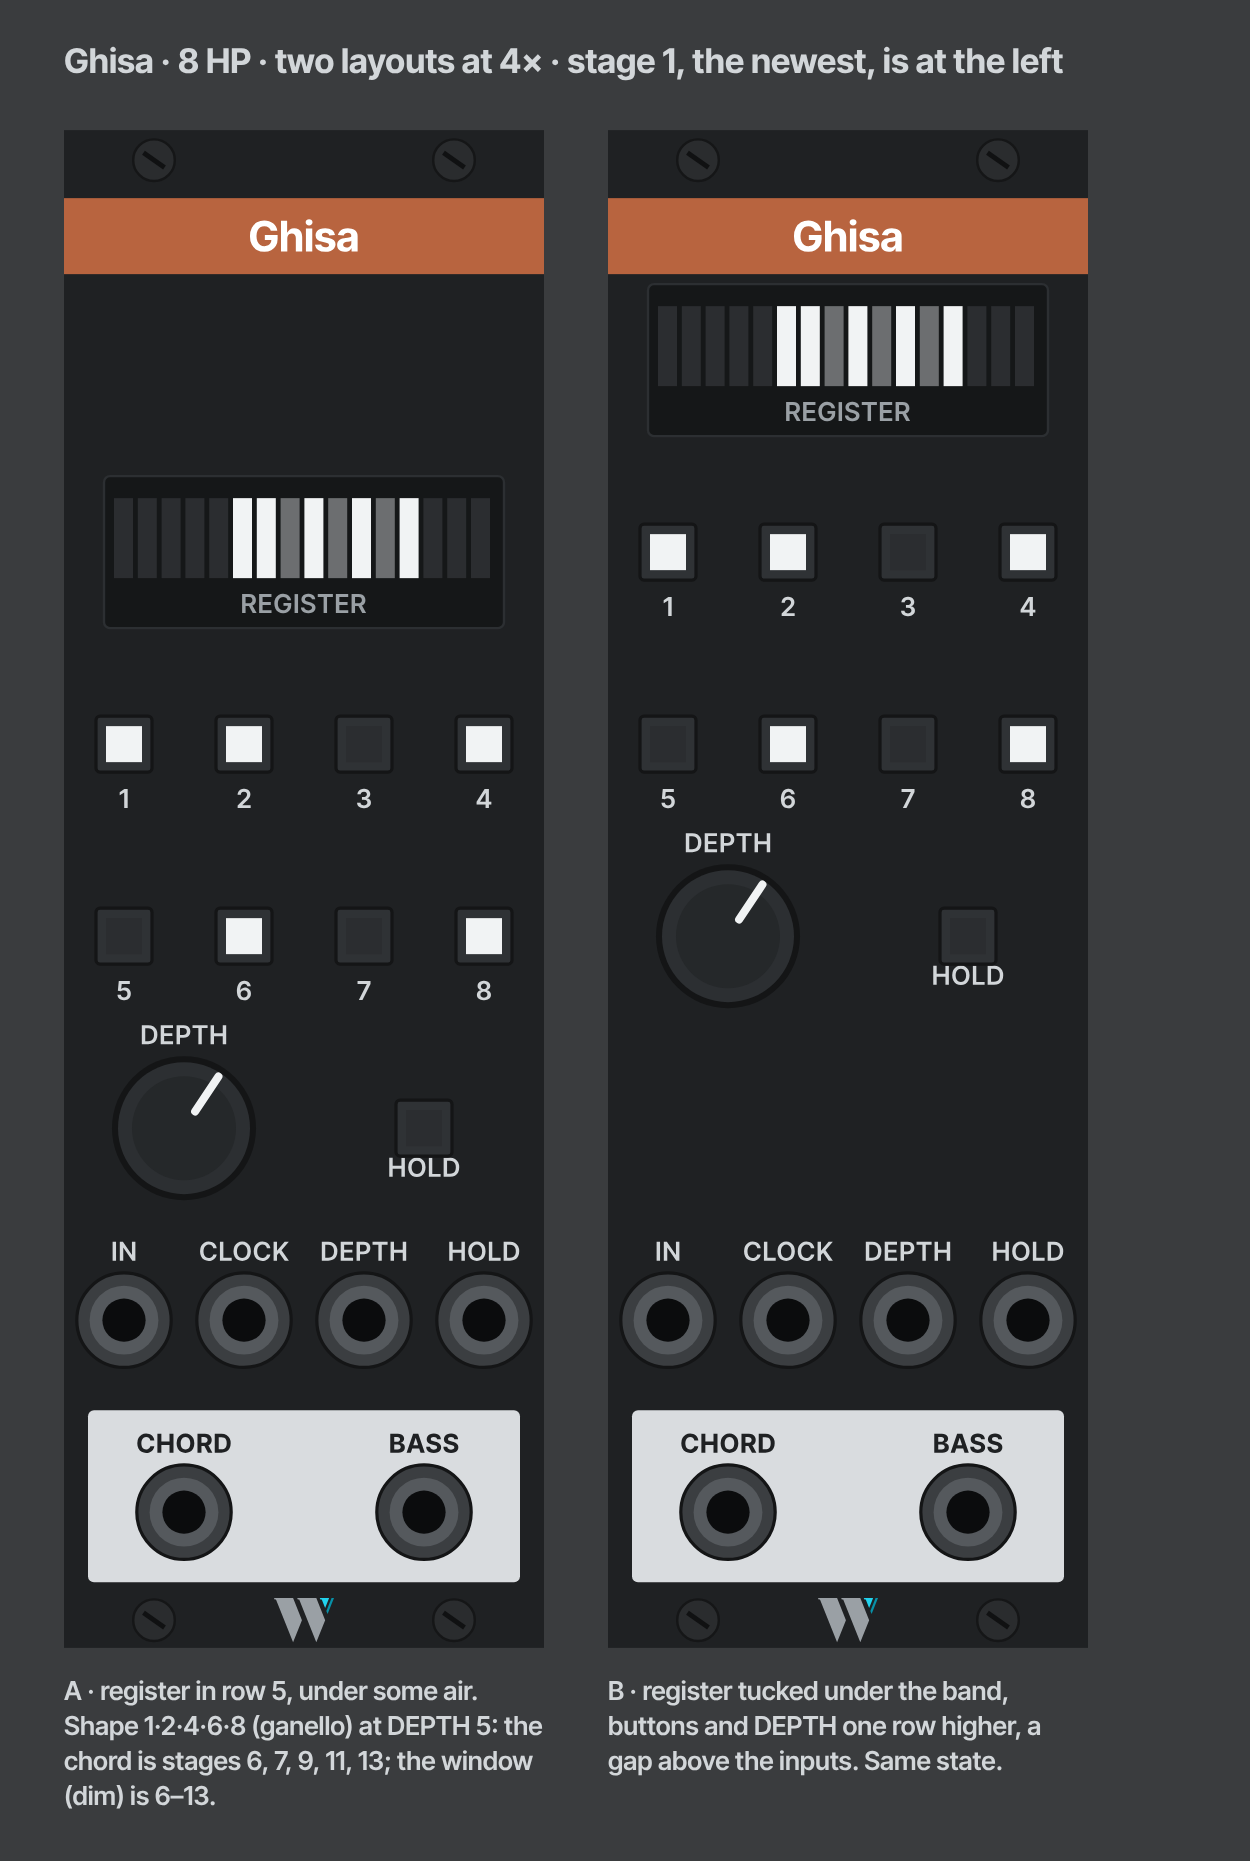
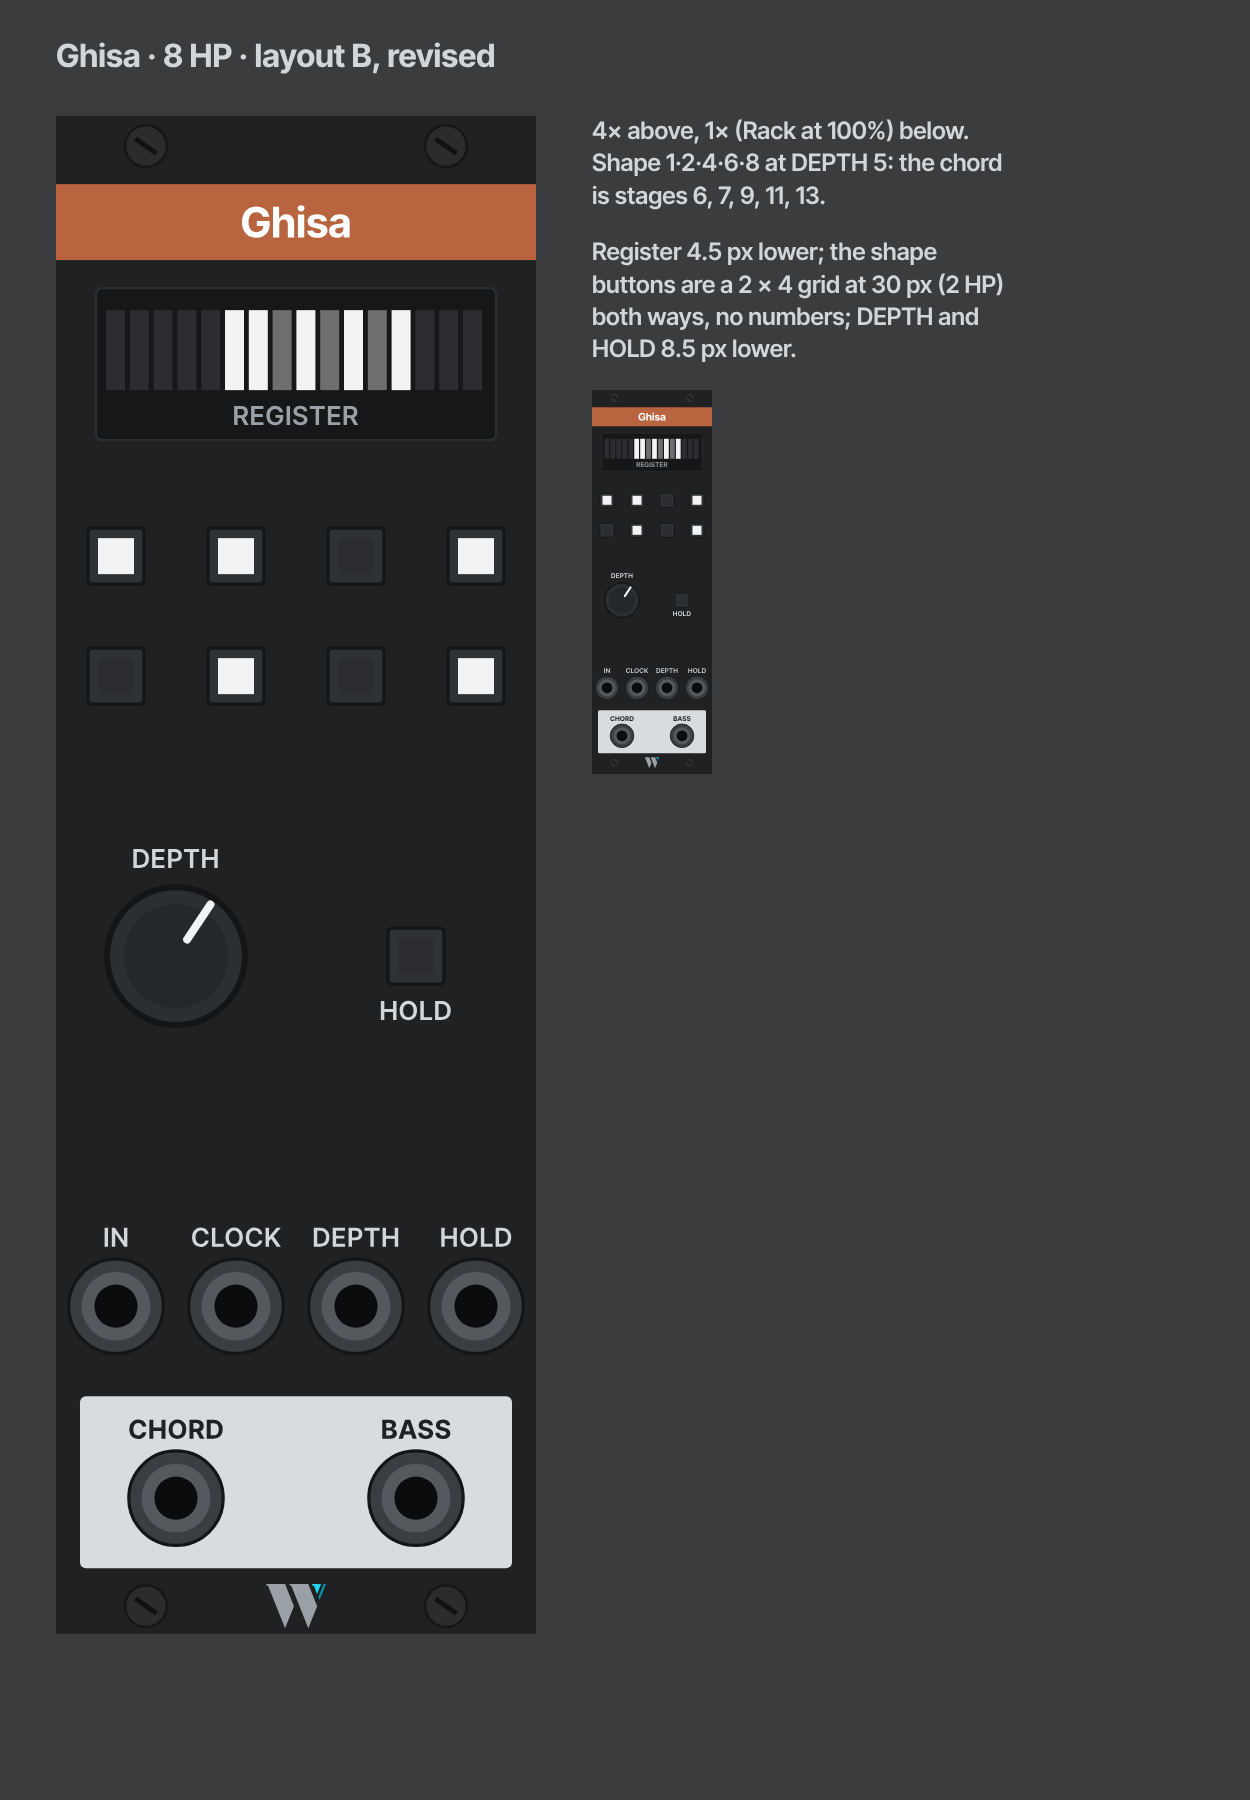
docs(ghisa): settle the panel layout
Register display under the band, shape buttons as an unnumbered
2 x 4 grid at 2 HP pitch, DEPTH and HOLD lowered; the mock now
shows this layout at 4x and 1x.

Claude-Session: https://claude.ai/code/session_0116HnEf1fb9SQHaLSwfx3Xm

diff --git a/docs/modules/ghisa.md b/docs/modules/ghisa.md
@@ -57,11 +57,14 @@ The working modes live in the menu, not on the panel.
 
 ![Ghisa panel mock](ghisa-mock.png)
 
-From the top: the register display, the shape buttons in two rows of four, DEPTH and HOLD, the inputs (IN, CLOCK, DEPTH, HOLD) and the plate with CHORD and BASS.
+From the top: the register display just under the band, the shape buttons, DEPTH and HOLD, the inputs (IN, CLOCK, DEPTH, HOLD) and the plate with CHORD and BASS.
+
+- **Shape buttons** form a 2 × 4 grid with a 30 px (2 HP) pitch both ways, unnumbered: the grid reads as the shape, left to right and top to bottom.
+- **Off the row grid.** The display, the button grid and the DEPTH row sit a few px off the 48 px rows (in px: register centre 62, buttons 110 and 140, DEPTH and HOLD 210). The inputs and the plate keep their rows.
 
 - **Register display:** sixteen flat bars, one per stage, newest at the left. Off: outside the window. Dim: in the window, not tapped. Full: tapped. The voicing can be watched moving.
 - **Shape buttons and HOLD:** the square flat light from [design-system.md](../design-system.md#displays), on a button.
-- The generator gains `button` (a latching button with a square light) and `bars` kinds with Ghisa.
+- The generator gains `button` (a latching button with a square light), a button grid, and `bars` kinds with Ghisa, plus a way to nudge a row off the 48 px grid and to put a display in the top row under the band.
 
 ## In a patch
 
@@ -71,7 +74,6 @@ From the top: the register display, the shape buttons in two rows of four, DEPTH
 
 ## Open questions
 
-- [ ] Panel layout: the register under the band (B on the mock) or one row lower (A).
 - [ ] HOLD's loop length: always 16, or the deepest tapped stage, so the loop is as long as the chord's memory.
 - [ ] Default shape: 1, 3, 5 is a guess, to be set by ear.
 - [ ] Whether a CHANGE trigger out (high when the chord's notes change) earns its place.

diff --git a/docs/architecture.md b/docs/architecture.md
@@ -221,6 +221,7 @@ The plugin and the MCP binary are GPL-3.0-or-later. That allows reusing limen, l
 | Ghisa builds in the bass tap (`bss`'s job): a BASS output beside the poly CHORD | 2026-11-02 |
 | A module's working modes go in its right-click menu, not on the panel | 2026-11-02 |
 | Ghisa's HOLD is a button and a gate input; while either is on, the register loops | 2026-11-02 |
+| Ghisa's panel: register display under the band, shape buttons as an unnumbered 2 × 4 grid at 2 HP pitch; rows above the inputs may sit off the 48 px grid | 2026-11-02 |
 
 ## Open questions
 
